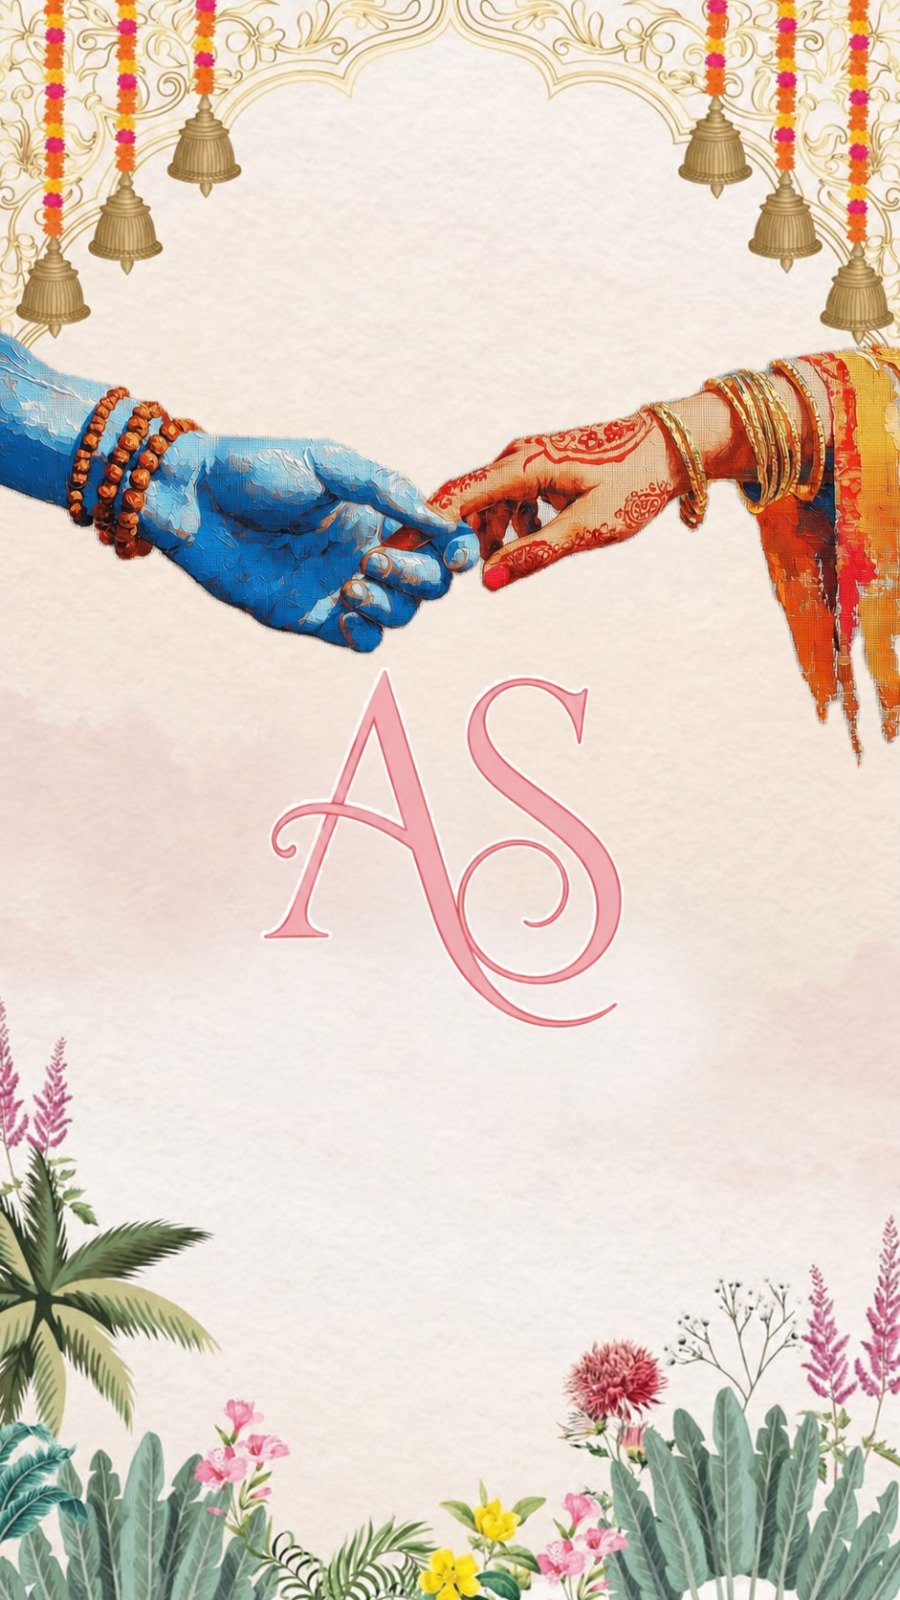
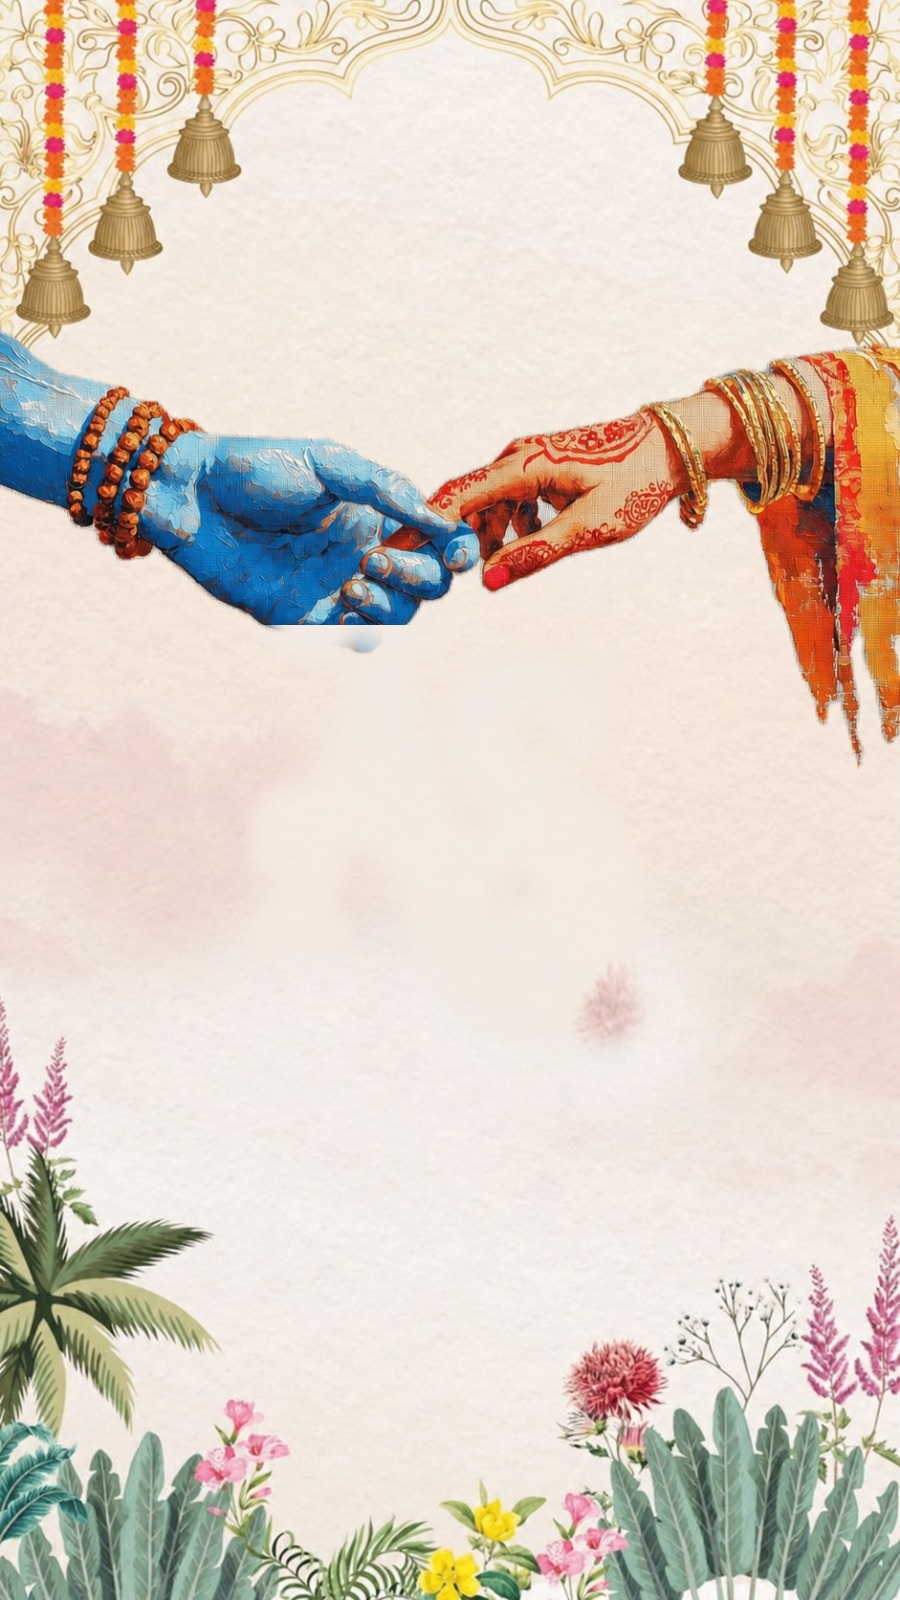
Update gift note and entry background

Changed region(s): [[0.28, 0.375, 0.7156, 0.6562]]

diff --git a/index.html b/index.html
@@ -297,8 +297,8 @@
           </article>
         </div>
         <p class="gift-line">
-          <span data-en>Your presence and blessings are the sweetest gift. Come celebrate with us.</span>
-          <span data-mr>आपली उपस्थिती आणि आशीर्वाद हेच आमच्यासाठी सर्वात मोठे आहेर. सोहळ्यात मनापासून सहभागी व्हा.</span>
+          <span data-en>No gifts or bouquets, please. Your presence and blessings are the greatest gift. We look forward to celebrating with you.</span>
+          <span data-mr>कृपया भेटवस्तू किंवा पुष्पगुच्छ आणू नयेत. आपली उपस्थिती आणि आशीर्वाद हेच आमच्यासाठी सर्वात मोठे आहेर आहेत. आपण आमच्यासोबत हा आनंद साजरा कराल, याची आम्ही आतुरतेने वाट पाहत आहोत.</span>
         </p>
       </section>
 
@@ -323,14 +323,4 @@
           <span data-en>With all our love</span>
           <span data-mr>आपल्या प्रेमासह</span>
         </p>
-        <div class="signature-logo" aria-hidden="true"><img src="assets/as-logo-clean.png" alt="" /></div>
-        <p class="forever">
-          <span data-en>Forever & Always</span>
-          <span data-mr>सदैव सोबत</span>
-        </p>
-      </section>
-    </main>
-
-    <script src="app.js"></script>
-  </body>
-</html>
+        <div class="signature-logo" aria-hidden="true"><img src="

diff --git a/june19.html b/june19.html
@@ -271,8 +271,8 @@
           </article>
         </div>
         <p class="gift-line">
-          <span data-en>Your presence and blessings are the sweetest gift. Come celebrate with us.</span>
-          <span data-mr>आपली उपस्थिती आणि आशीर्वाद हेच आमच्यासाठी सर्वात मोठे आहेर. सोहळ्यात मनापासून सहभागी व्हा.</span>
+          <span data-en>No gifts or bouquets, please. Your presence and blessings are the greatest gift. We look forward to celebrating with you.</span>
+          <span data-mr>कृपया भेटवस्तू किंवा पुष्पगुच्छ आणू नयेत. आपली उपस्थिती आणि आशीर्वाद हेच आमच्यासाठी सर्वात मोठे आहेर आहेत. आपण आमच्यासोबत हा आनंद साजरा कराल, याची आम्ही आतुरतेने वाट पाहत आहोत.</span>
         </p>
       </section>
 
@@ -297,14 +297,4 @@
           <span data-en>With all our love</span>
           <span data-mr>आपल्या प्रेमासह</span>
         </p>
-        <div class="signature-logo" aria-hidden="true"><img src="assets/as-logo-clean.png" alt="" /></div>
-        <p class="forever">
-          <span data-en>Forever & Always</span>
-          <span data-mr>सदैव सोबत</span>
-        </p>
-      </section>
-    </main>
-
-    <script src="app.js"></script>
-  </body>
-</html>
+        <div class="signature-logo" aria-hidden="true"><img src="
